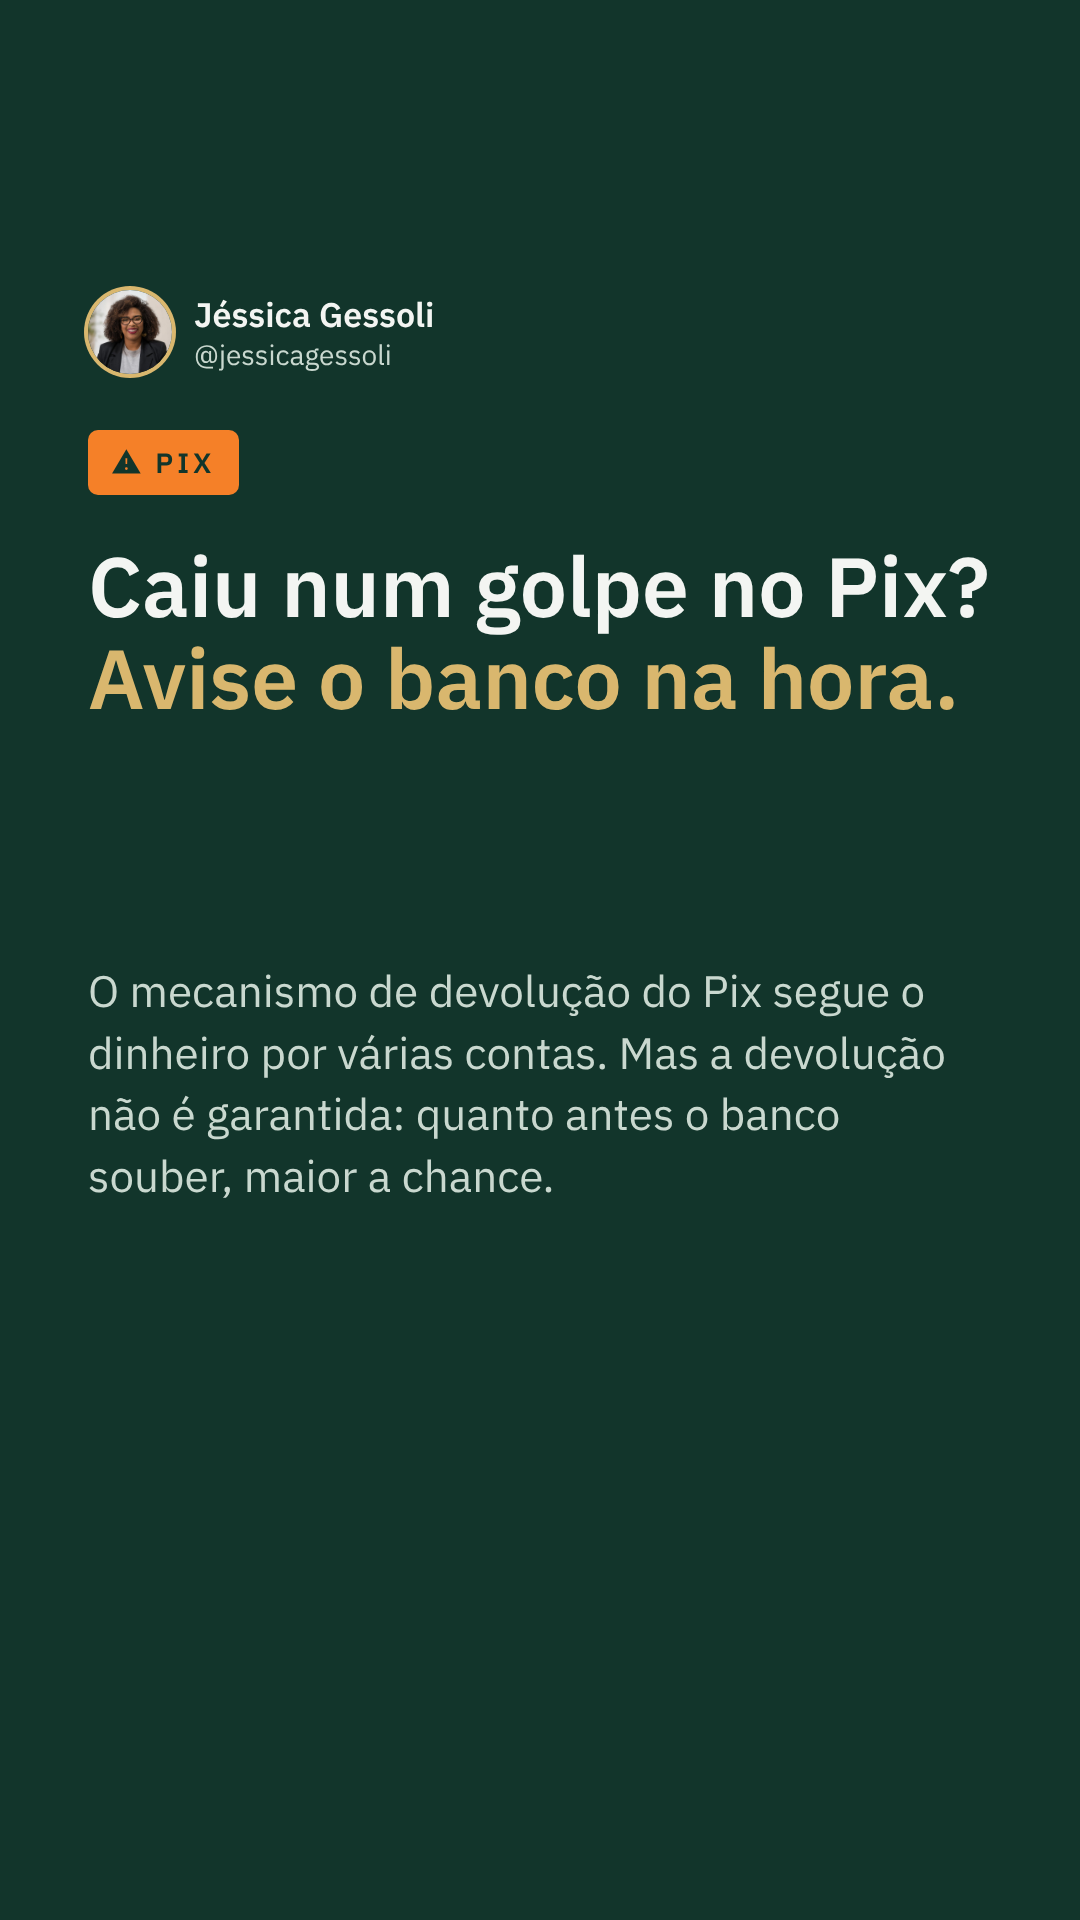
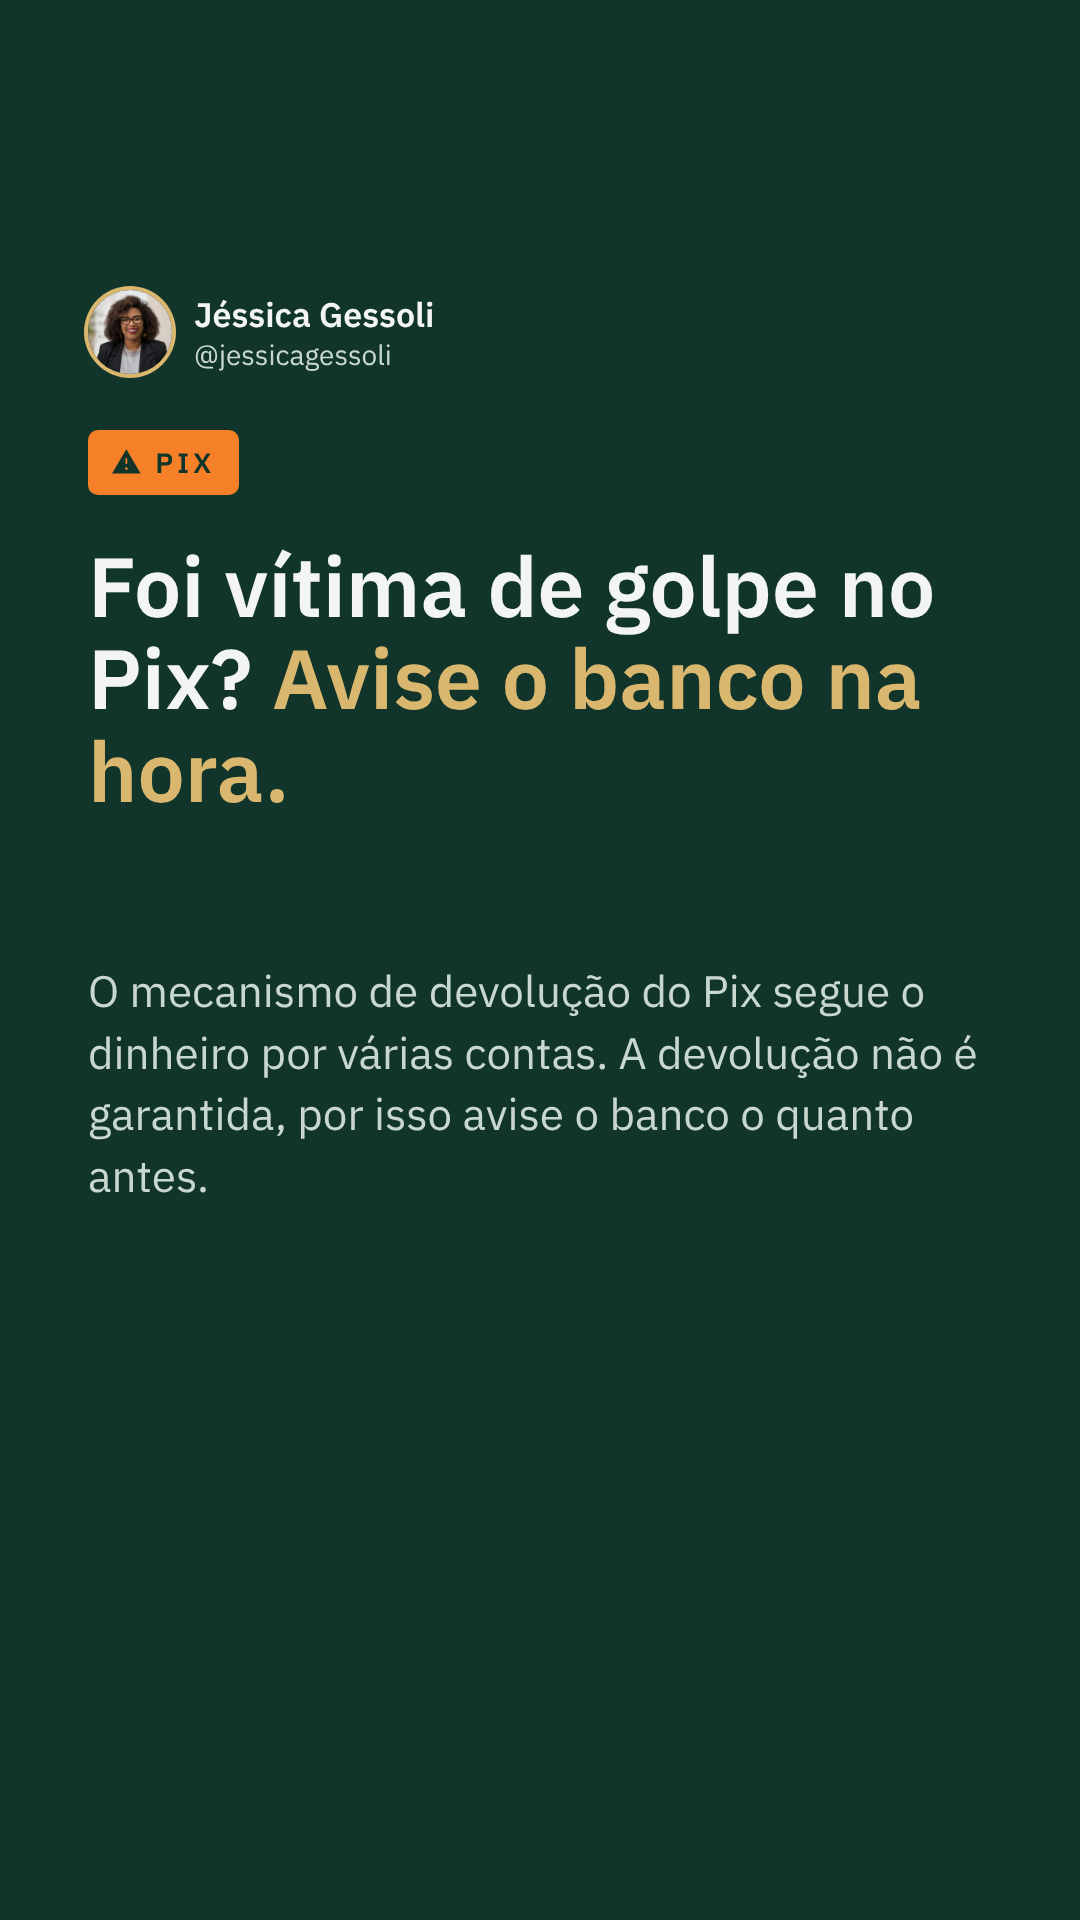
Story de 26/10: 'Foi vítima de golpe no Pix?' (linguagem sem culpa) e sem 'maior a chance' (sem fonte)
Claude-Session: https://claude.ai/code/session_014grh3uaSABRrhKanxqxRUA

Changed region(s): [[0.0611, 0.2812, 0.9167, 0.4375], [0.0917, 0.5312, 0.9167, 0.625]]

diff --git a/campaigns/social/radar-2026-10/stories_radar.py b/campaigns/social/radar-2026-10/stories_radar.py
@@ -3,7 +3,7 @@ D = os.path.dirname(os.path.abspath(__file__)); R = "/home/claude/zethic-site"
 OUT = os.path.join(D, "..", "esp", "radar_stories"); os.makedirs(OUT, exist_ok=True)
 S = [
  ("2026-10-19T12:00:00","story-2026-10-19-feira-empreendedor","FEIRA DO EMPREENDEDOR · 19 A 22/10","Vai à Feira do Empreendedor do [[Sebrae-SP]]?","Inscrição e credenciamento só pelo site oficial do Sebrae-SP. Link que chega por mensagem: confira no site oficial antes de clicar.","alerta"),
- ("2026-10-26T12:00:00","story-2026-10-26-pix-avise-banco","PIX","Caiu num golpe no Pix? [[Avise o banco na hora.]]","O mecanismo de devolução do Pix segue o dinheiro por várias contas. Mas a devolução não é garantida: quanto antes o banco souber, maior a chance.","alerta"),
+ ("2026-10-26T12:00:00","story-2026-10-26-pix-avise-banco","PIX","Foi vítima de golpe no Pix? [[Avise o banco na hora.]]","O mecanismo de devolução do Pix segue o dinheiro por várias contas. A devolução não é garantida, por isso avise o banco o quanto antes.","alerta"),
  ("2026-11-03T12:00:00","story-2026-11-03-titulo-eleitor","TÍTULO DE ELEITOR","O cadastro eleitoral reabre hoje. [[O golpe do título cancelado também.]]","Regularizar o título é gratuito. Confira só no app e-Título ou no site do TSE, digitando o endereço você mesmo.","alerta"),
  ("2026-11-11T12:00:00","story-2026-11-11-onze-onze","11.11","Hoje é 11.11. [[Começa a temporada das lojas falsas.]]","Desconto grande demais, loja que você não conhece, Pix para pessoa física: pare e confira. No dia 22 começa a Semana da Compra Segura.","alerta"),
  ("2026-11-19T12:00:00","story-2026-11-19-empreendedorismo-feminino-1","DIA DO EMPREENDEDORISMO FEMININO","3 decisões de segurança que toda [[dona de Negócio]] toma sem time de TI","1 de 3 · Confirmação em duas etapas no WhatsApp, no Instagram e no app do banco do Negócio.","calmo"),
